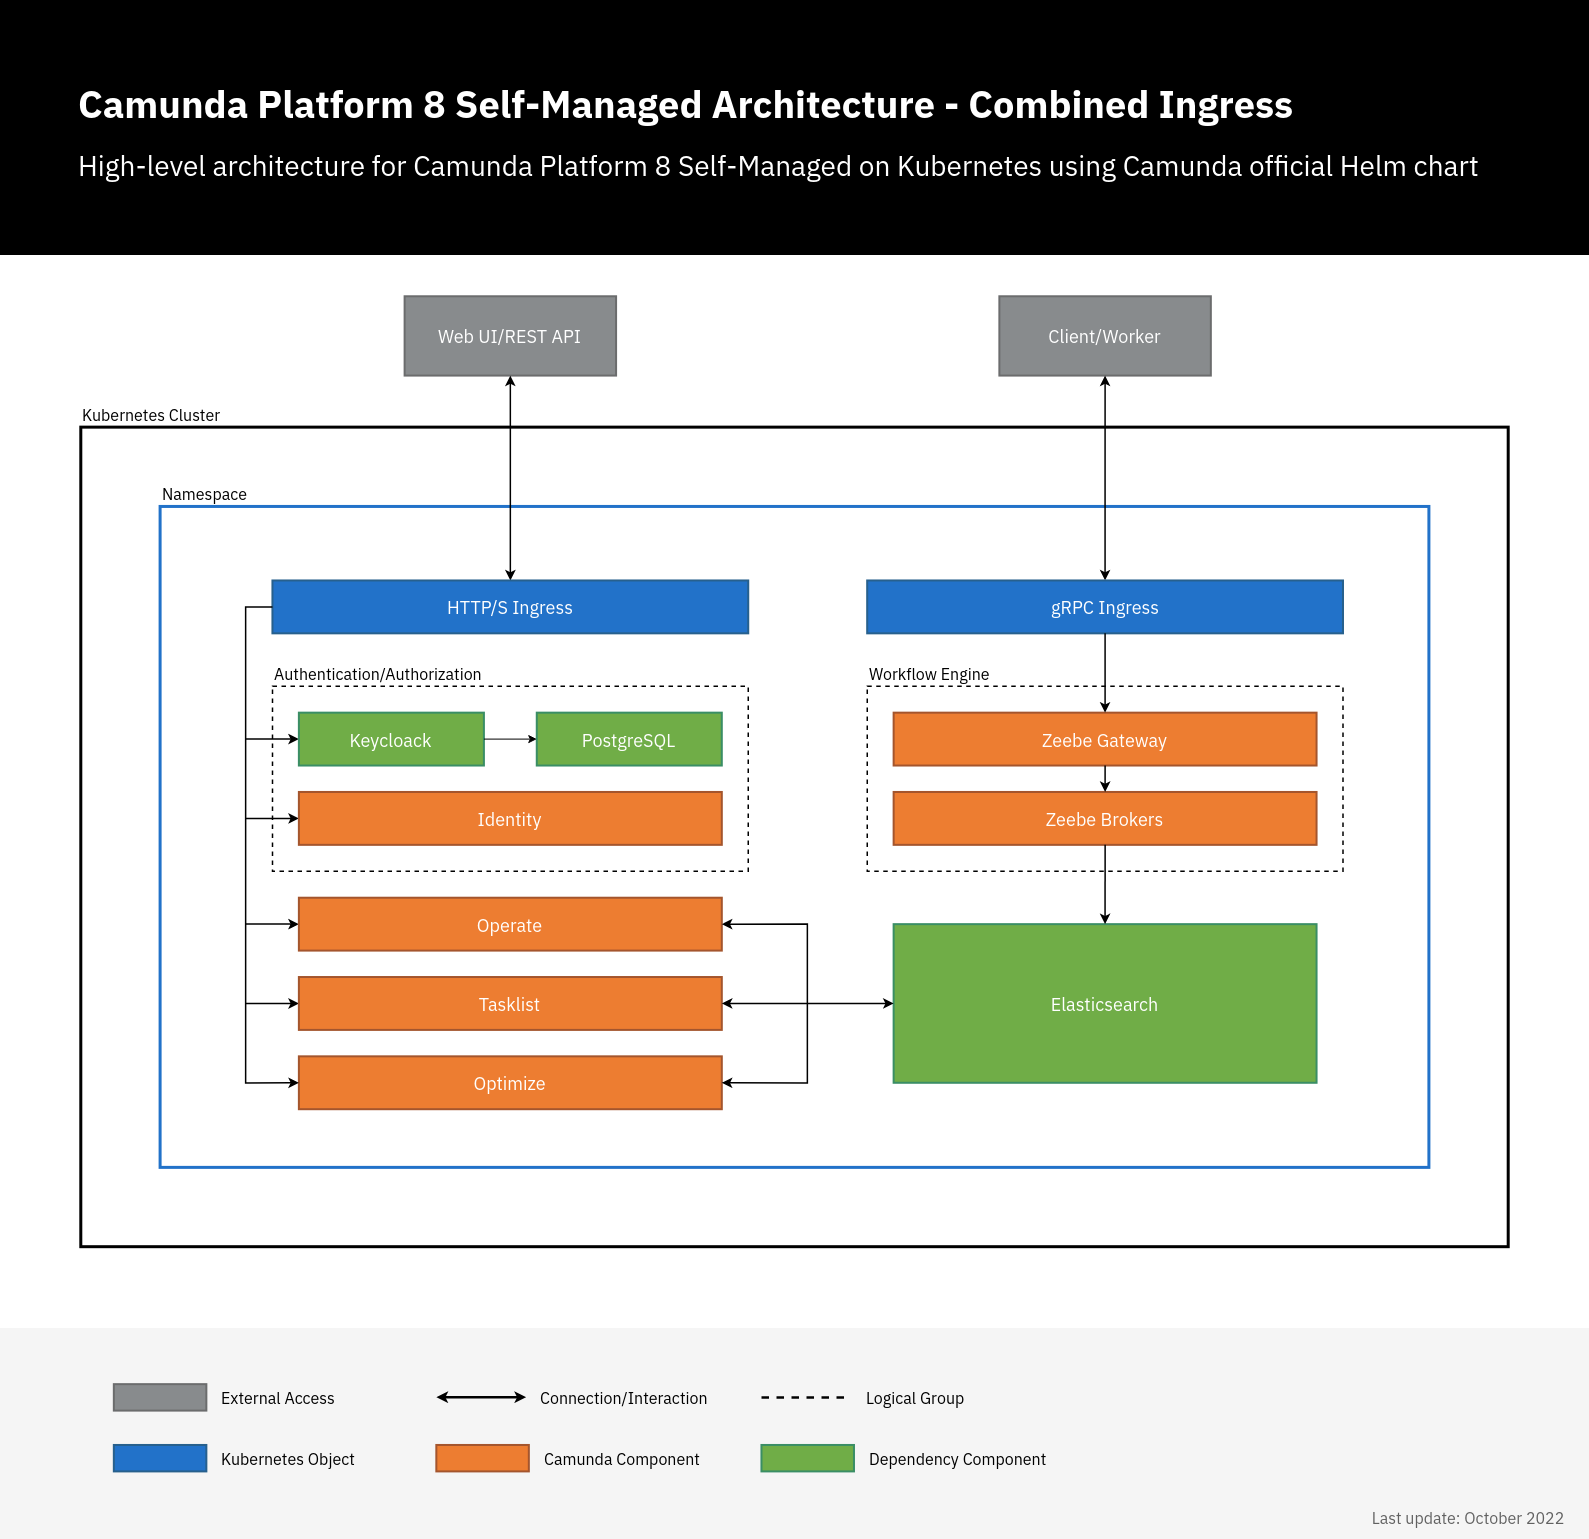
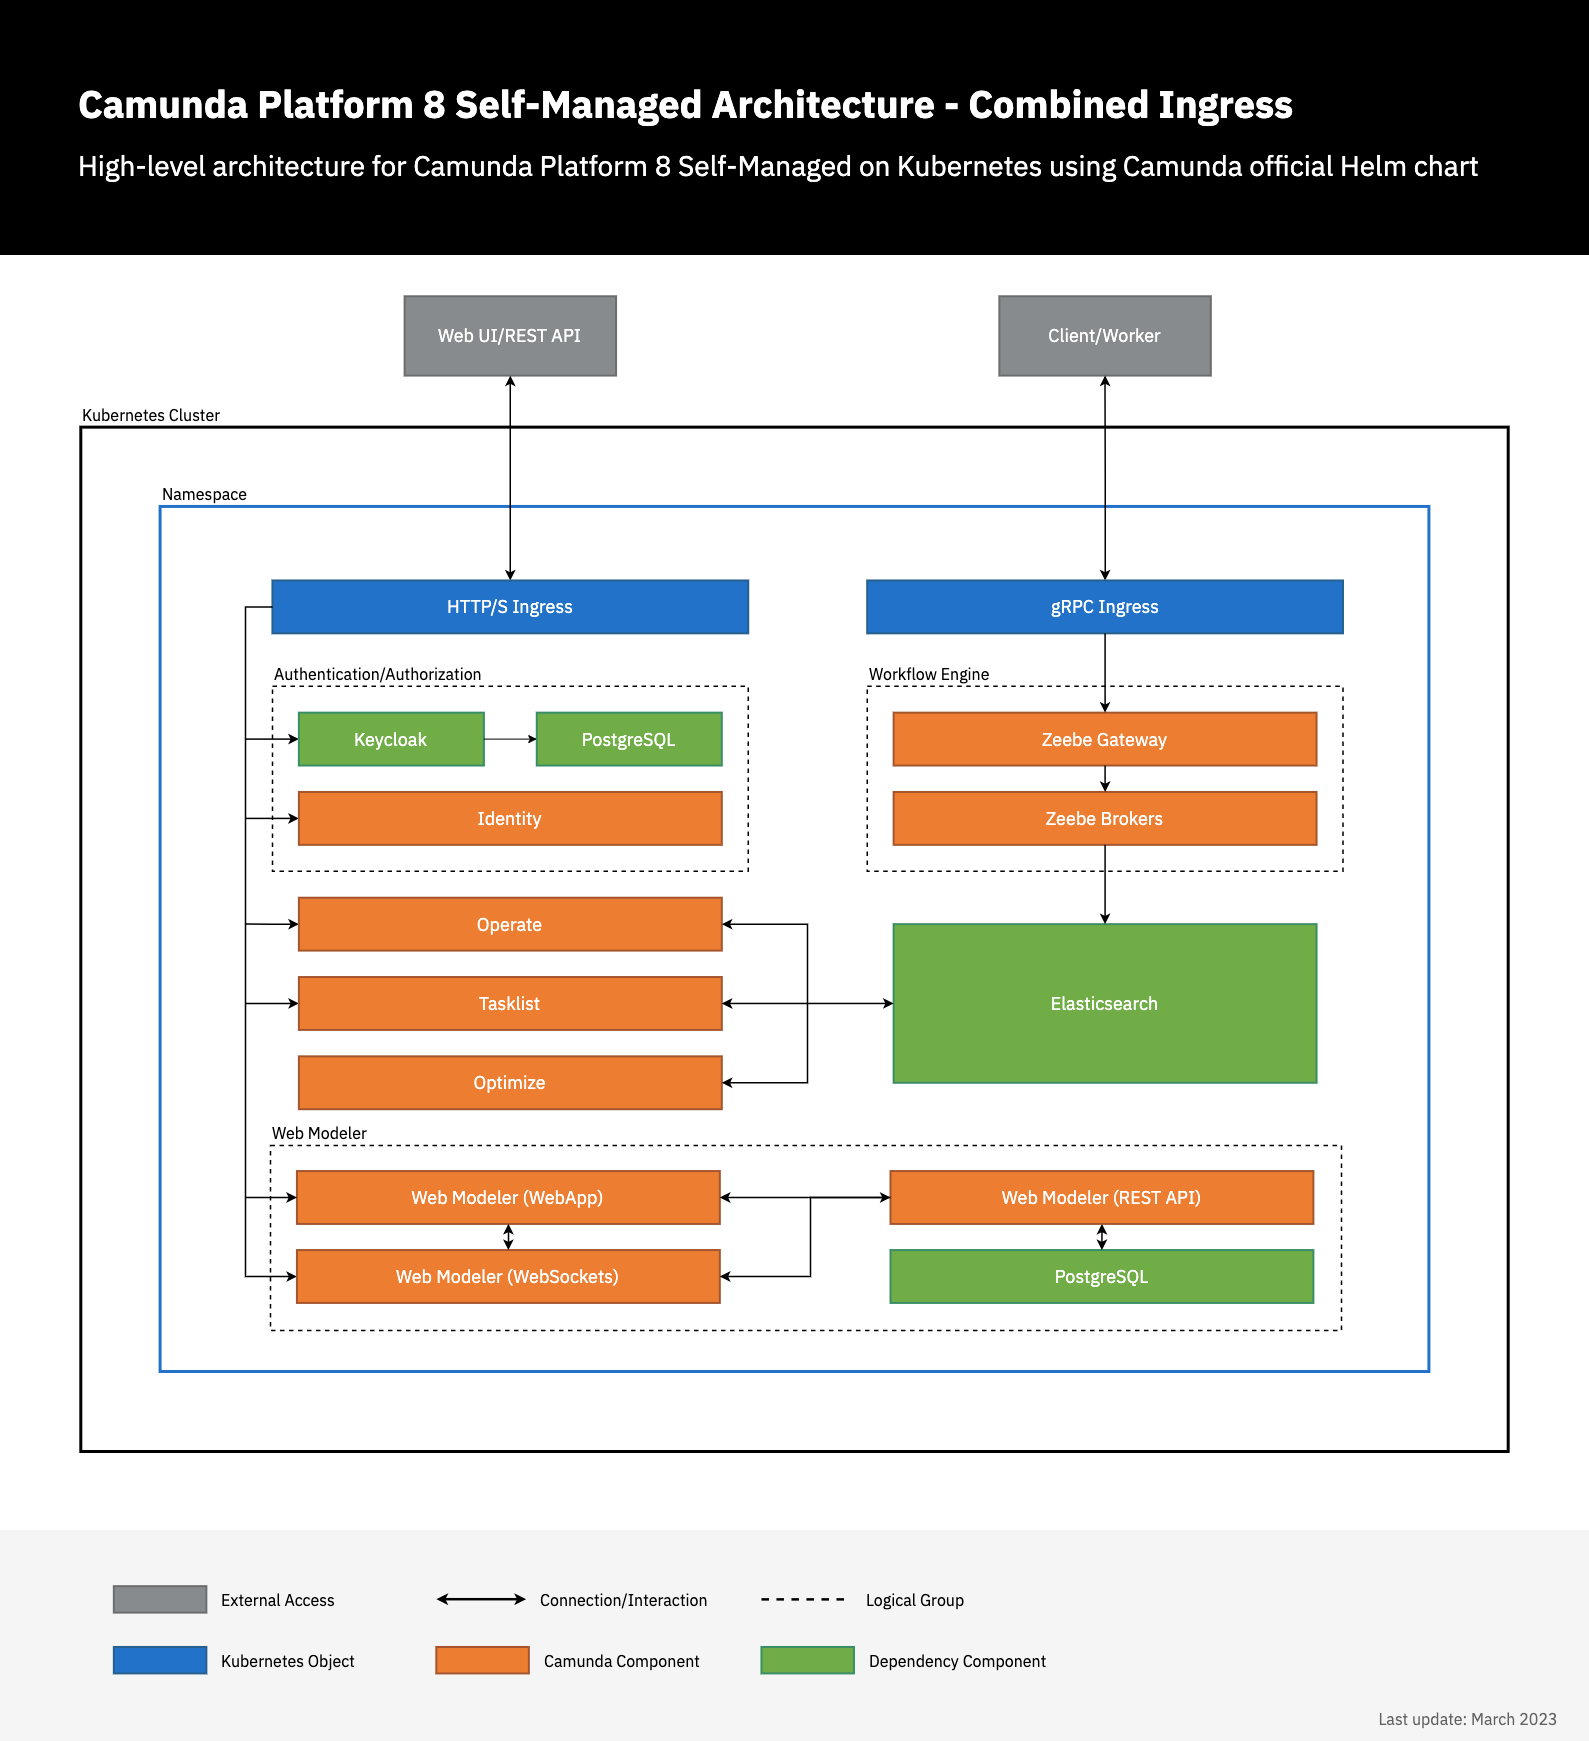
docs(self-managed): include Web Modeler in combined Ingress setup

diff --git a/docs/self-managed/platform-deployment/helm-kubernetes/guides/ingress-setup.md b/docs/self-managed/platform-deployment/helm-kubernetes/guides/ingress-setup.md
@@ -24,10 +24,6 @@ Camunda Platform 8 Helm chart doesn't manage or deploy Ingress controllers, it o
 
 In this setup, a single Ingress/domain is used to access Camunda Platform 8 web applications, and another for Zeebe Gateway. By default, all web applications use `/` as a base, so we just need to set the context path, Ingress configuration, and authentication redirect URLs.
 
-:::caution Web Modeler
-The combined Ingress setup does not support Web Modeler yet. To enable external access to Web Modeler, you'll need to set up a [separate Ingress](#separated-ingress-setup).
-:::
-
 ![Camunda Platform 8 Self-Managed Architecture Diagram - Combined Ingress](../../../platform-architecture/assets/camunda-platform-8-self-managed-architecture-diagram-combined-ingress.png)
 
 ```yaml
@@ -53,6 +49,8 @@ global:
         redirectUrl: "https://camunda.example.com/tasklist"
       optimize:
         redirectUrl: "https://camunda.example.com/optimize"
+      webModeler:
+        redirectUrl: "https://camunda.example.com/modeler"
 
 identity:
   contextPath: "/identity"
@@ -67,12 +65,19 @@ optimize:
 tasklist:
   contextPath: "/tasklist"
 
+webModeler:
+  contextPath: "/modeler"
+
 zeebe-gateway:
   ingress:
     enabled: true
     className: nginx
     host: "zeebe.camunda.example.com"
 ```
+
+:::note Web Modeler
+The configuration above only contains the Ingress-related values under `webModeler`. Note the additional [installation instructions and configuration hints](../../helm-kubernetes/deploy.md#installing-web-modeler-beta).
+:::
 
 Using the custom values file, [deploy Camunda Platform 8 as usual](../../helm-kubernetes/deploy.md):
 
@@ -82,7 +87,7 @@ helm install demo camunda/camunda-platform -f values-combined-ingress.yaml
 
 Once deployed, you can access the Camunda Platform 8 components on:
 
-- **Web applications:** `https://camunda.example.com/[identity|operate|optimize|tasklist]`
+- **Web applications:** `https://camunda.example.com/[identity|operate|optimize|tasklist|modeler]`
 - **Keycloak authentication:** `https://camunda.example.com/auth`
 - **Zeebe Gateway:** `grpc://zeebe.camunda.example.com`
 

diff --git a/docs/self-managed/platform-architecture/overview.md b/docs/self-managed/platform-architecture/overview.md
@@ -15,15 +15,11 @@ Camunda Platform 8 Self-Managed has multiple web applications and gRPC services 
 
 In this architecture, Camunda Platform 8 Self-Managed can be accessed as follows:
 
-- Web applications: `https://camunda.example.com/[identity|operate|optimize|tasklist]`
+- Web applications: `https://camunda.example.com/[identity|operate|optimize|tasklist|modeler]`
 - Keycloak authentication: `https://camunda.example.com/auth`
 - Zeebe gateway: `grpc://zeebe.camunda.example.com`
 
 It's also possible to set up an Ingress for each component. For more details, visit our [combined and separated Ingress setup guide](../platform-deployment/helm-kubernetes/guides/ingress-setup.md).
-
-:::caution Web Modeler
-The combined Ingress setup does not support Web Modeler yet. To enable external access to Web Modeler, set up a [separate Ingress](../platform-deployment/helm-kubernetes/guides/ingress-setup.md#separated-ingress-setup) using a subdomain (e.g. `https://modeler.camunda.example.com`).
-:::
 
 ## Deployment
 
